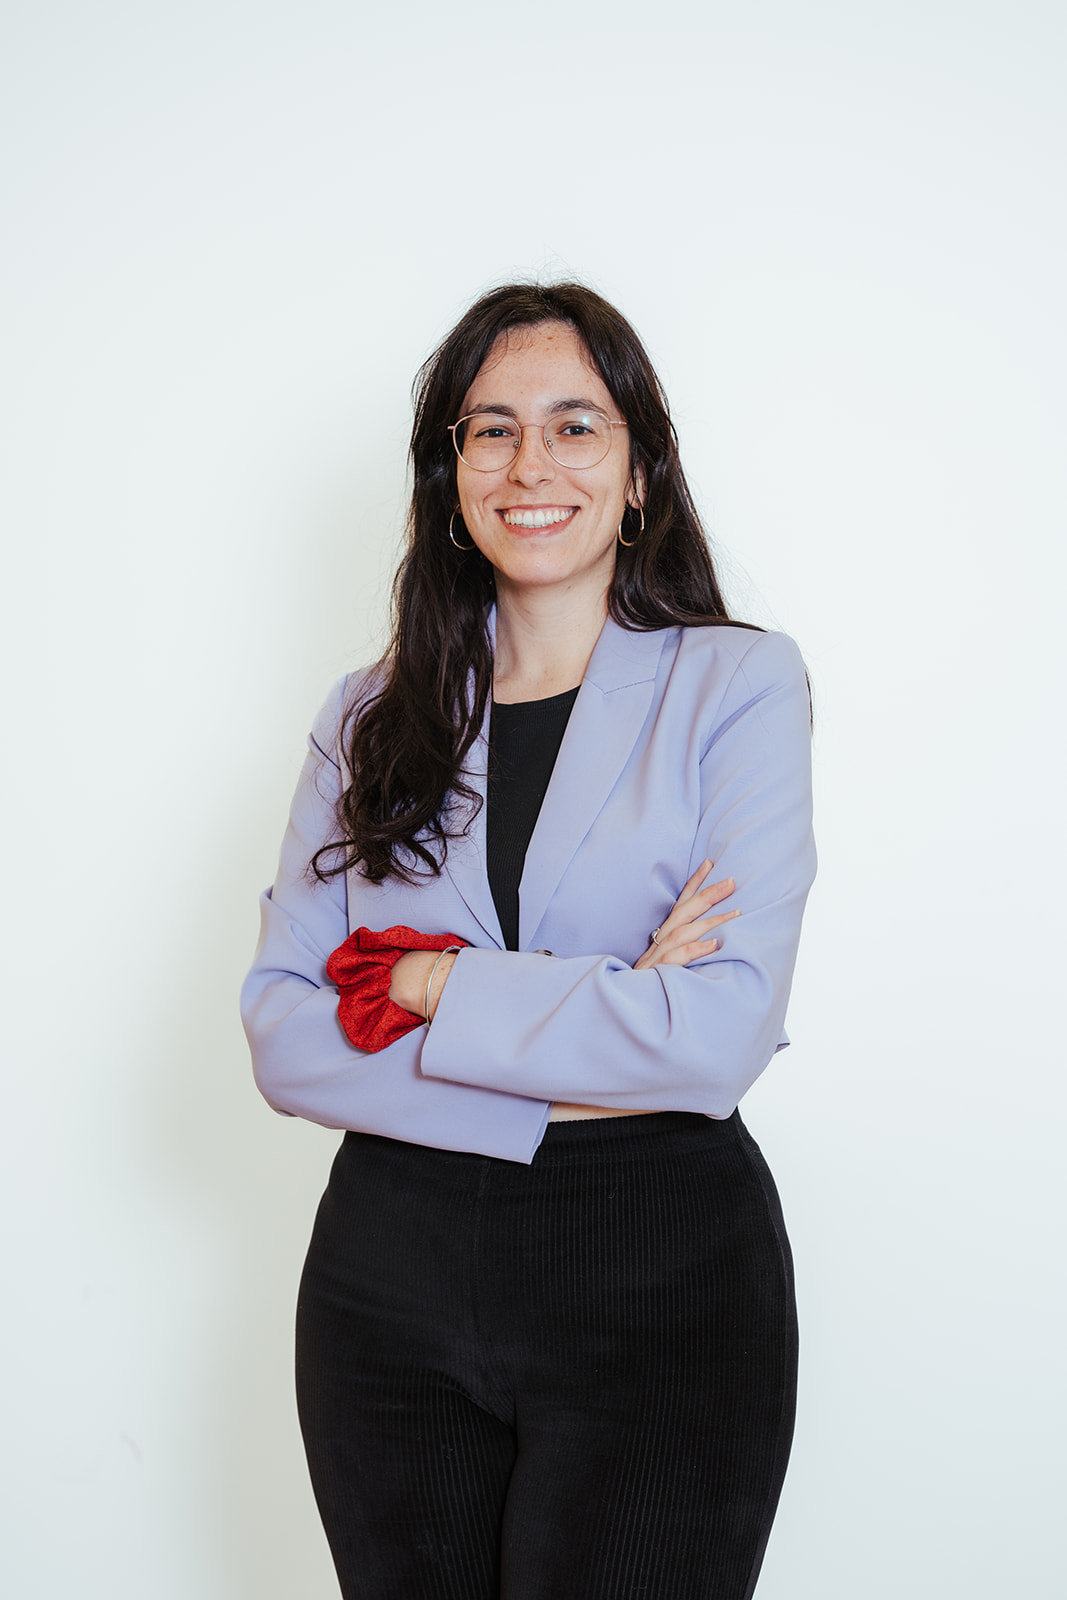
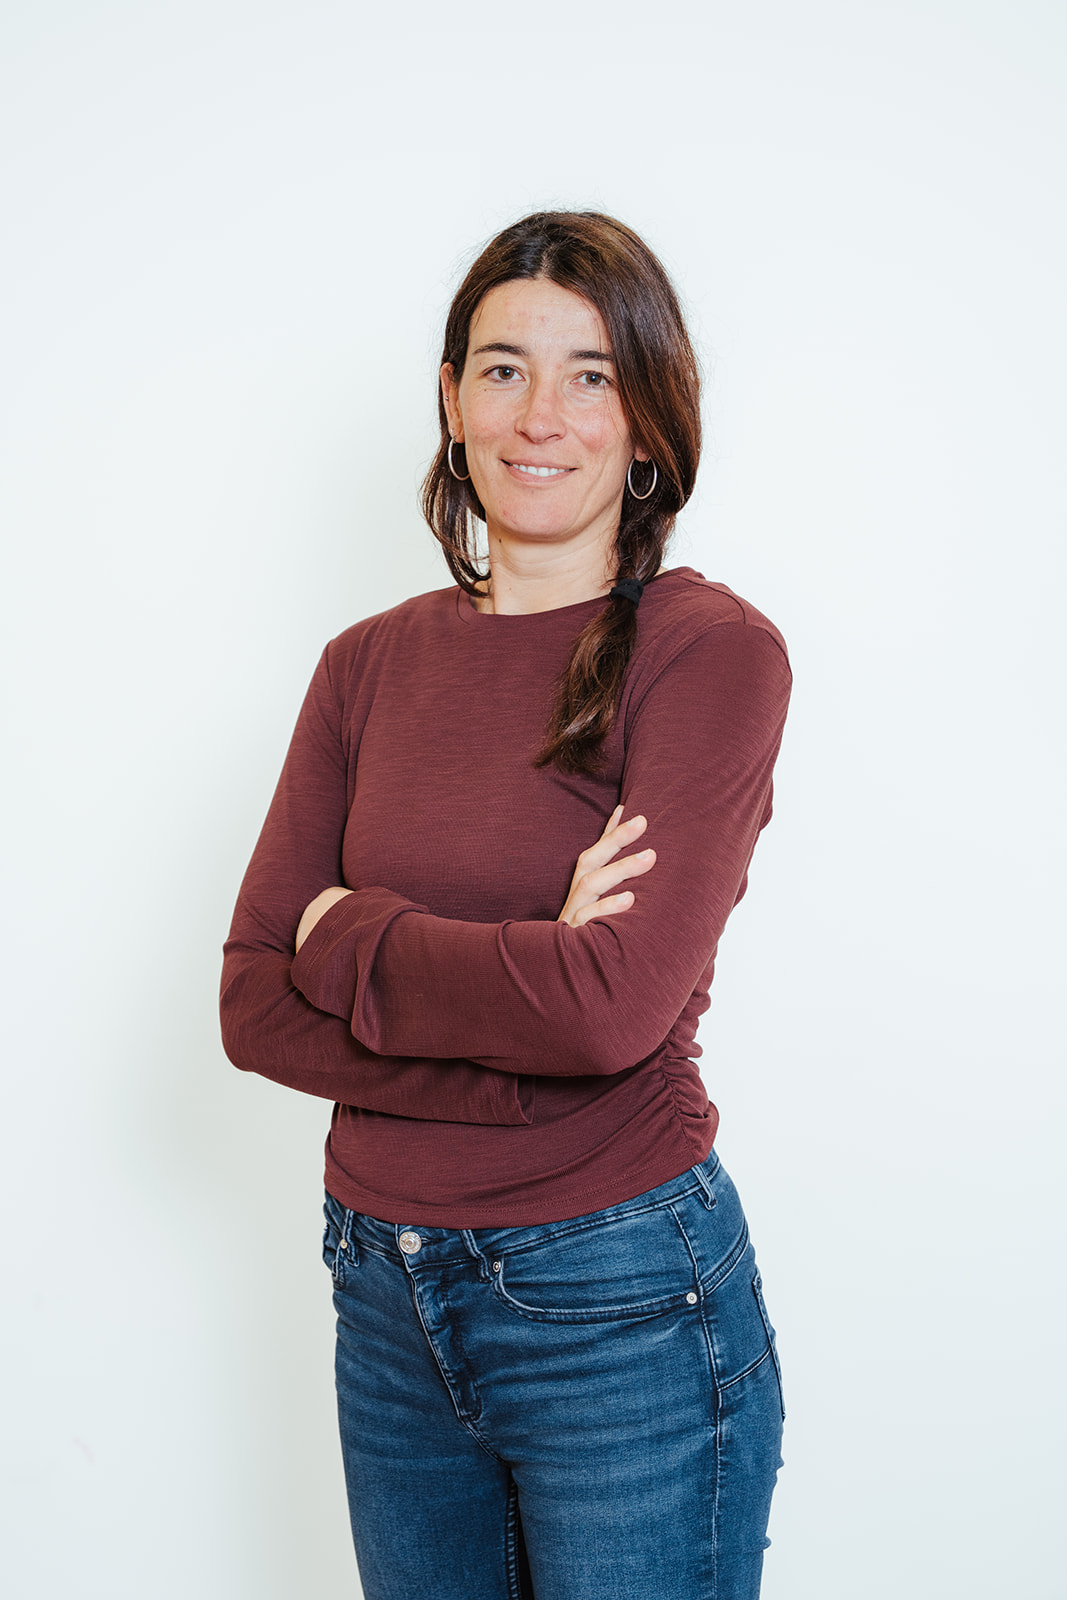
Team section and page updated

diff --git a/equip.html b/equip.html
@@ -41,7 +41,7 @@
     <div class="services-grid">
       <div class="service-card">
         <div class="service-card-img">
-          <img src="images/Equip_1.jpg" alt="Nom professional 1">
+          <img src="images/Equip_1.jpg" alt="Nom professional 1" style="object-position: center 25%;">
         </div>
         <div class="service-card-body">
           <h3>Nom Professional 1</h3>
@@ -56,7 +56,7 @@
 
       <div class="service-card">
         <div class="service-card-img">
-          <img src="images/Equip_2.jpg" alt="Nom professional 2">
+          <img src="images/Equip_2.jpg" alt="Nom professional 2" style="object-position: center 25%;">
         </div>
         <div class="service-card-body">
           <h3>Nom Professional 2</h3>
@@ -71,7 +71,7 @@
 
       <div class="service-card">
         <div class="service-card-img">
-          <img src="images/Equip_3.jpg" alt="Nom professional 3">
+          <img src="images/Equip_3.jpg" alt="Nom professional 3" style="object-position: center 25%;">
         </div>
         <div class="service-card-body">
           <h3>Nom Professional 3</h3>
@@ -86,7 +86,7 @@
 
       <div class="service-card">
         <div class="service-card-img">
-          <img src="images/Equip_4.jpg" alt="Nom professional 4">
+          <img src="images/Equip_4.jpg" alt="Nom professional 4" style="object-position: center 25%;">
         </div>
         <div class="service-card-body">
           <h3>Nom Professional 4</h3>
@@ -101,7 +101,7 @@
 
       <div class="service-card">
         <div class="service-card-img">
-          <img src="images/Equip_5.jpg" alt="Nom professional 5">
+          <img src="images/Equip_5.jpg" alt="Nom professional 5" style="object-position: center 25%;">
         </div>
         <div class="service-card-body">
           <h3>Nom Professional 5</h3>
@@ -116,7 +116,7 @@
 
       <div class="service-card">
         <div class="service-card-img">
-          <img src="images/Equip_6.jpg" alt="Nom professional 6">
+          <img src="images/Equip_6.jpg" alt="Nom professional 6" style="object-position: center 25%;">
         </div>
         <div class="service-card-body">
           <h3>Nom Professional 6</h3>
@@ -125,6 +125,21 @@
             <li>Avaluació neuropsicològica</li>
             <li>Rehabilitació cognitiva</li>
             <li>Demències</li>
+          </ul>
+        </div>
+      </div>
+
+      <div class="service-card">
+        <div class="service-card-img">
+          <img src="images/Equip_7.jpg" alt="Nom professional 7">
+        </div>
+        <div class="service-card-body">
+          <h3>Nom Professional 7</h3>
+          <p>Nou membre de l'equip.</p>
+          <ul class="service-list">
+            <li>Especialitat 1</li>
+            <li>Especialitat 2</li>
+            <li>Especialitat 3</li>
           </ul>
         </div>
       </div>

diff --git a/index.html b/index.html
@@ -177,13 +177,18 @@
         <h2>Coneix l'equip Bmind</h2>
         <p>Som un equip multidisciplinari que treballa amb il·lusió per oferir-te el millor acompanyament. Cada
           professional aporta la seva expertesa per garantir una atenció integral.</p>
-        <div class="team-avatars" style="margin-bottom:20px; flex-wrap: wrap;">
-          <div class="avatar"><img src="images/Equip_1.jpg" alt="Equip 1"></div>
-          <div class="avatar"><img src="images/Equip_2.jpg" alt="Equip 2"></div>
-          <div class="avatar"><img src="images/Equip_3.jpg" alt="Equip 3"></div>
-          <div class="avatar"><img src="images/Equip_4.jpg" alt="Equip 4"></div>
-          <div class="avatar"><img src="images/Equip_5.jpg" alt="Equip 5"></div>
-          <div class="avatar"><img src="images/Equip_6.jpg" alt="Equip 6"></div>
+        <div class="team-avatars-container" style="display: flex; flex-direction: column; gap: 32px; margin-bottom: 30px;">
+          <div class="team-avatars" style="margin: 0;">
+            <div class="avatar"><img src="images/Equip_1.jpg" alt="Equip 1"></div>
+            <div class="avatar"><img src="images/Equip_2.jpg" alt="Equip 2"></div>
+            <div class="avatar"><img src="images/Equip_3.jpg" alt="Equip 3"></div>
+            <div class="avatar"><img src="images/Equip_4.jpg" alt="Equip 4"></div>
+          </div>
+          <div class="team-avatars" style="margin: 0;">
+            <div class="avatar"><img src="images/Equip_5.jpg" alt="Equip 5"></div>
+            <div class="avatar"><img src="images/Equip_6.jpg" alt="Equip 6"></div>
+            <div class="avatar"><img src="images/Equip_7.jpg" alt="Equip 7"></div>
+          </div>
         </div>
         <a href="equip.html" class="btn-outline">Conèixer l'equip →</a>
       </div>

diff --git a/style.css b/style.css
@@ -331,9 +331,9 @@
     font-size: clamp(1.8rem, 3vw, 2.4rem); color: var(--dark); margin-bottom: 16px; line-height: 1.2;
   }
   .team-content p { color: var(--muted); line-height: 1.7; margin-bottom: 28px; }
-  .team-avatars { display: grid; grid-template-columns: repeat(3, max-content); gap: 32px; justify-content: center; }
+  .team-avatars { display: flex; flex-wrap: wrap; gap: 16px; justify-content: center; max-width: 100%; margin: 0 auto; }
   .avatar {
-    width: 130px; height: 130px; border-radius: 50%;
+    width: 115px; height: 115px; border-radius: 50%;
     border: 2px solid white; overflow: hidden;
     background: white;
     padding: 2px;